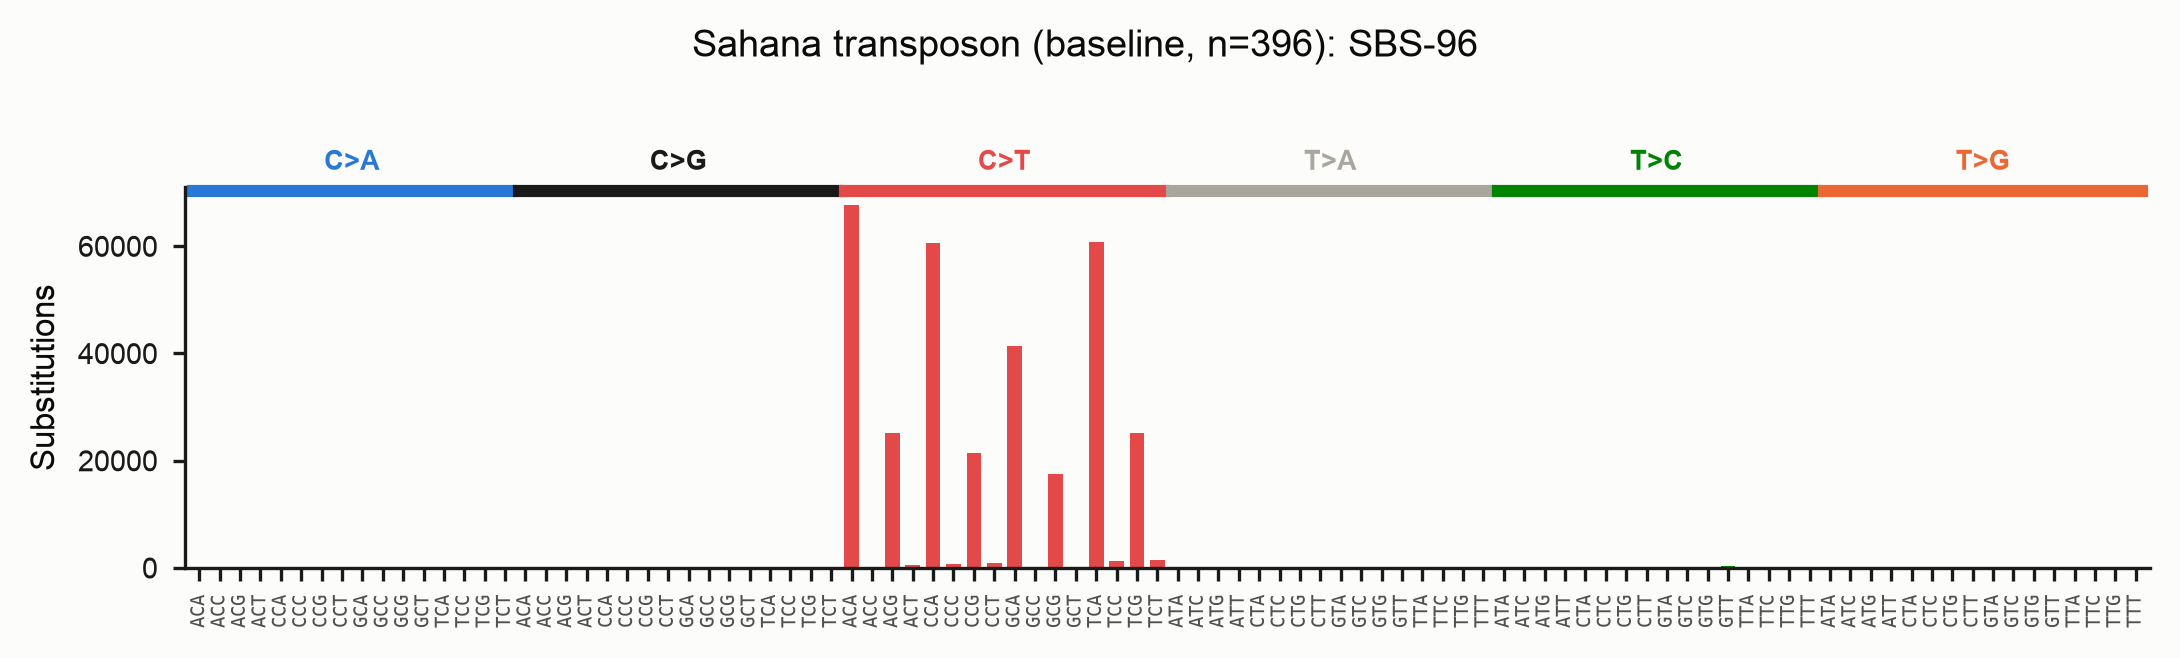
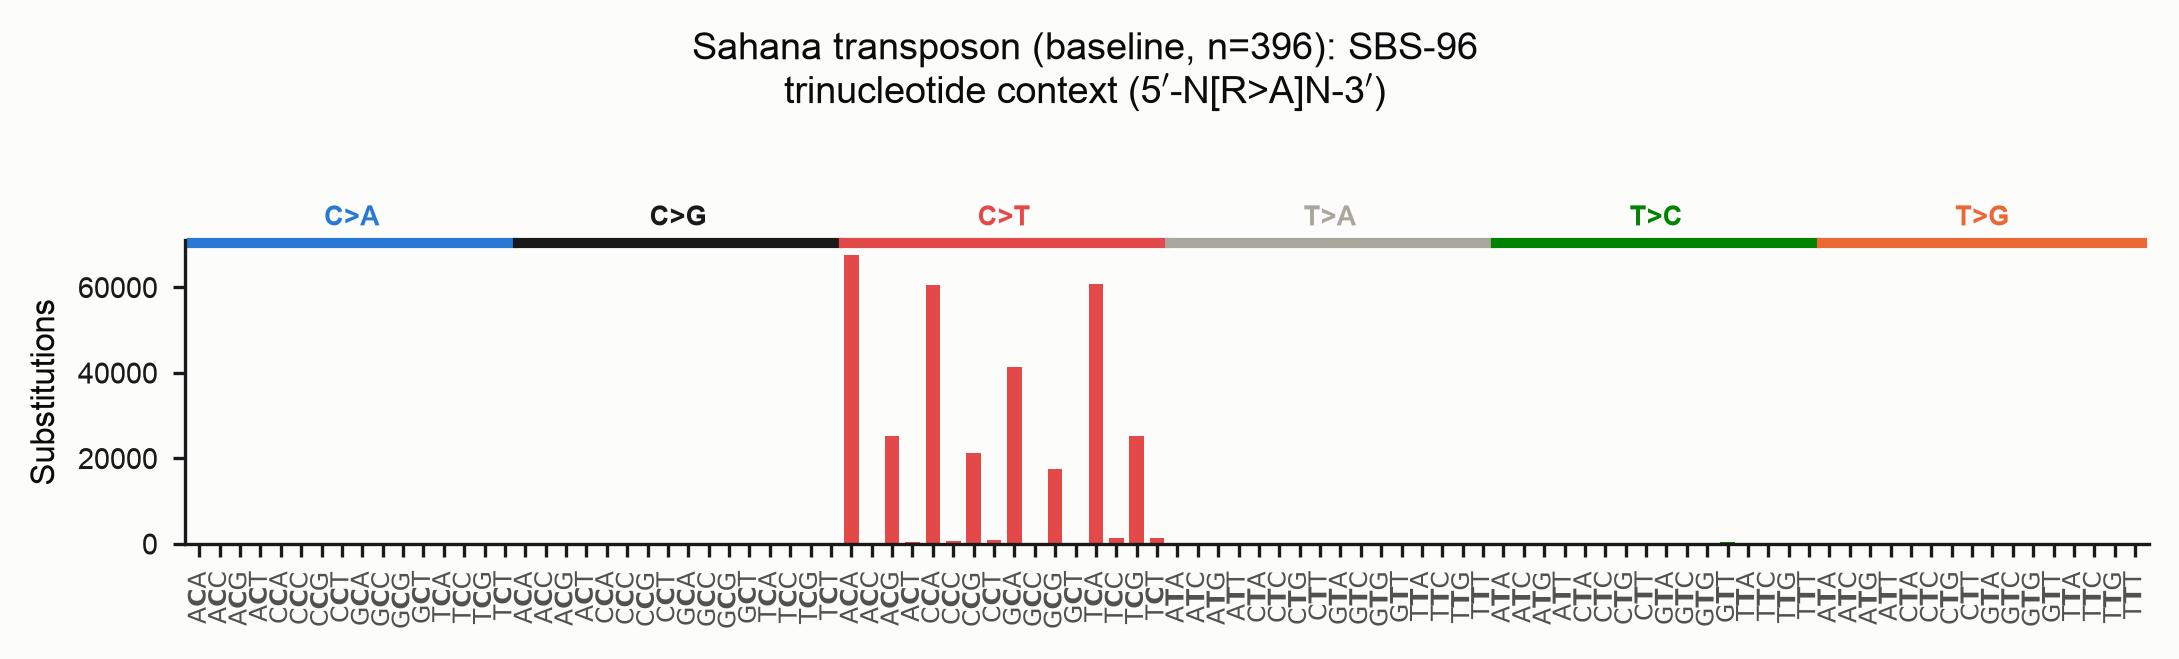
feat(plotting): make the bolded mutated base read clearly heavier
The bold mutated base was hard to see because the flanking bases used the
monospace math font, which is itself heavy. Set the flanks in thin roman
(\mathrm) so the bold (\mathbf) centre/first base pops, and bump the context
tick size (new CONTEXT_TICK_SIZE=6.0) for legibility. Regenerate the baseline
SBS-96 and downstream Sahana example figures to show the stronger emphasis.

Claude-Session: https://claude.ai/code/session_01KkpRnfKu9BY7FYFry7sYRV

diff --git a/src/derip2/plotting/spectra.py b/src/derip2/plotting/spectra.py
@@ -78,15 +78,21 @@ STRAND_COLORS = {
 
 RASTER_EXTS = ('.png', '.jpg', '.jpeg', '.tif', '.tiff')
 
+# Font size for the per-bar context-motif tick labels. Larger than the default
+# tick size so the bolded mutated base is legible at print scale.
+CONTEXT_TICK_SIZE = 6.0
+
 
 def _mono_bold(chars: str, bold_index: int) -> str:
     """
     Render a short motif as mathtext with one character emphasised in bold.
 
     matplotlib cannot bold a single character of an ordinary tick label, so the
-    motif is built as a mathtext string: every base is typeset in the monospace
-    math font (``\\mathtt``) except the mutated base at ``bold_index``, which is
-    typeset bold (``\\mathbf``) to mark it as the substitution site.
+    motif is built as a mathtext string: the flanking bases are typeset in the
+    light roman math font (``\\mathrm``) and the mutated base at ``bold_index`` in
+    the bold font (``\\mathbf``). Pairing thin roman flanks with a bold centre
+    maximises the weight contrast, so the mutated (substituted) base stands out
+    clearly -- a monospace flank font is itself heavy and would mute the emphasis.
 
     Parameters
     ----------
@@ -99,10 +105,10 @@ def _mono_bold(chars: str, bold_index: int) -> str:
     Returns
     -------
     str
-        A mathtext string, e.g. ``r'$\\mathtt{A}\\mathbf{C}\\mathtt{G}$'``.
+        A mathtext string, e.g. ``r'$\\mathrm{A}\\mathbf{C}\\mathrm{G}$'``.
     """
     parts = [
-        (r'\mathbf{%s}' if i == bold_index else r'\mathtt{%s}') % ch
+        (r'\mathbf{%s}' if i == bold_index else r'\mathrm{%s}') % ch
         for i, ch in enumerate(chars)
     ]
     return '$' + ''.join(parts) + '$'
@@ -350,7 +356,9 @@ def _draw_spectrum_panel(
                     else:
                         labels.append(_mono_bold(f'{b1}{ref}{b2}', 1))
         ax.set_xticks(x)
-        ax.set_xticklabels(labels, rotation=90, fontsize=4.5, color=INK_SECONDARY)
+        ax.set_xticklabels(
+            labels, rotation=90, fontsize=CONTEXT_TICK_SIZE, color=INK_SECONDARY
+        )
     else:
         ax.set_xticks([block * 16 + 7.5 for block in range(n_blocks)])
         ax.set_xticklabels(

diff --git a/tests/test_spectra_plot.py b/tests/test_spectra_plot.py
@@ -127,9 +127,9 @@ def test_multi_sample_sbs192_has_one_panel_per_sample(result_multi):
 
 
 def test_mono_bold_marks_one_character():
-    """_mono_bold bolds exactly the requested character and typesets the rest mono."""
-    assert sp._mono_bold('ACG', 0) == r'$\mathbf{A}\mathtt{C}\mathtt{G}$'
-    assert sp._mono_bold('ACG', 1) == r'$\mathtt{A}\mathbf{C}\mathtt{G}$'
+    """_mono_bold bolds exactly the requested char and sets the rest thin roman."""
+    assert sp._mono_bold('ACG', 0) == r'$\mathbf{A}\mathrm{C}\mathrm{G}$'
+    assert sp._mono_bold('ACG', 1) == r'$\mathrm{A}\mathbf{C}\mathrm{G}$'
 
 
 def test_plot_downstream_writes_file(tmp_path, result_downstream):
@@ -154,8 +154,9 @@ def test_sbs96_ticks_bold_middle_base(result):
     """Trinucleotide motif ticks bold the middle (mutated) base via mathtext."""
     fig = sp.plot_sbs96(result)
     labels = [t.get_text() for t in fig.axes[0].get_xticklabels()]
+    # Middle base bold: thin roman first flank, then a bold group.
     assert labels and all(
-        lab.startswith(r'$\mathtt{') and r'\mathbf{' in lab for lab in labels
+        lab.startswith(r'$\mathrm{') and r'\mathbf{' in lab for lab in labels
     )
     plt.close(fig)
 